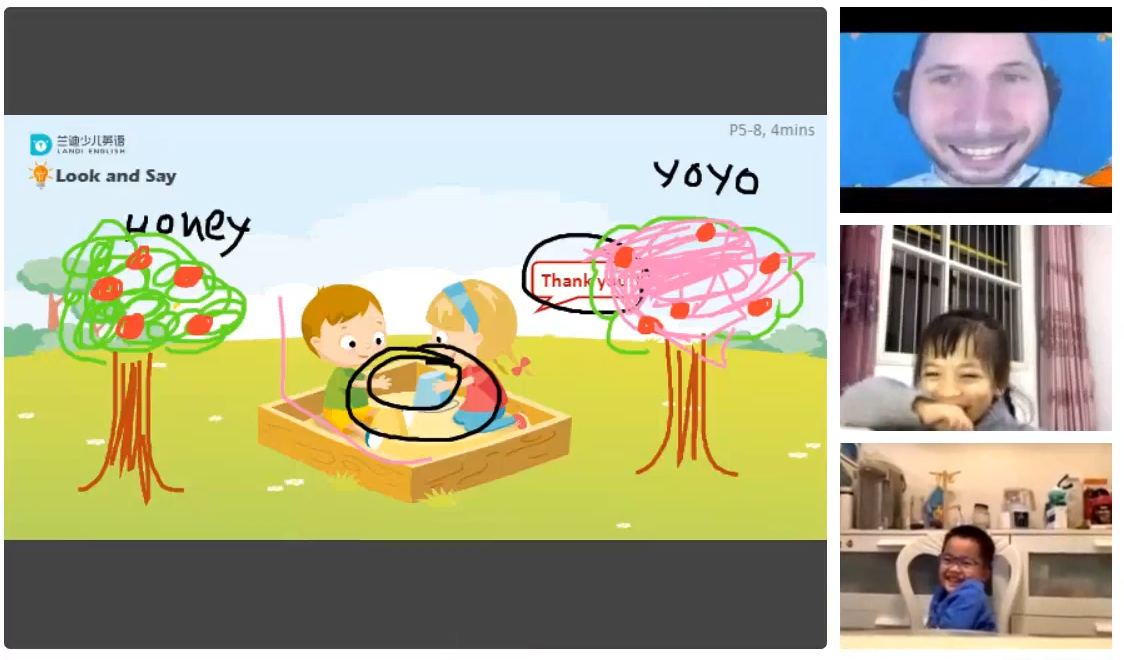
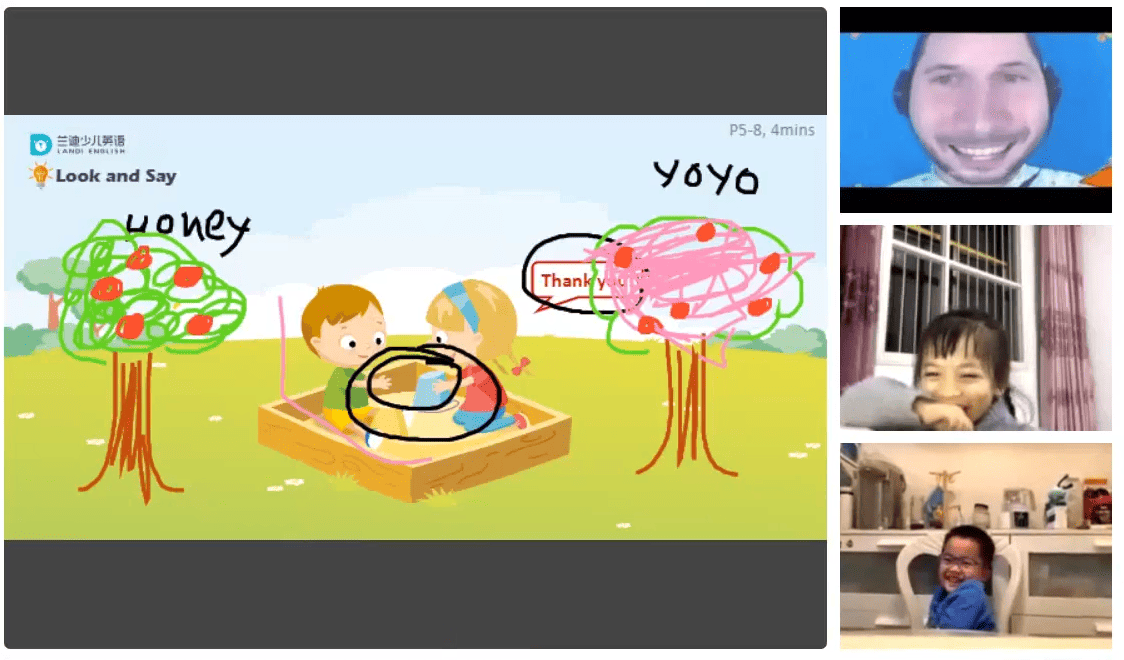
will OPTIMIZE: images by compressing their size leading for faster page load. some old items removed too

diff --git a/src/components/Career.jsx b/src/components/Career.jsx
@@ -31,9 +31,9 @@ export default function Career() {
         <div className="mx-[1.1rem] w-full max-w-[70rem]">
           <button
             onClick={handleBackClick}
-            className="flex items-center justify-start p-3.5 pl-0 text-xl transition hover:text-primary"
+            className="flex items-center justify-start p-3.5 pl-0 text-2xl transition hover:text-primary"
           >
-            <LuChevronLeft className="size-7" />
+            <LuChevronLeft className="size-8" />
             Back
           </button>
         </div>
